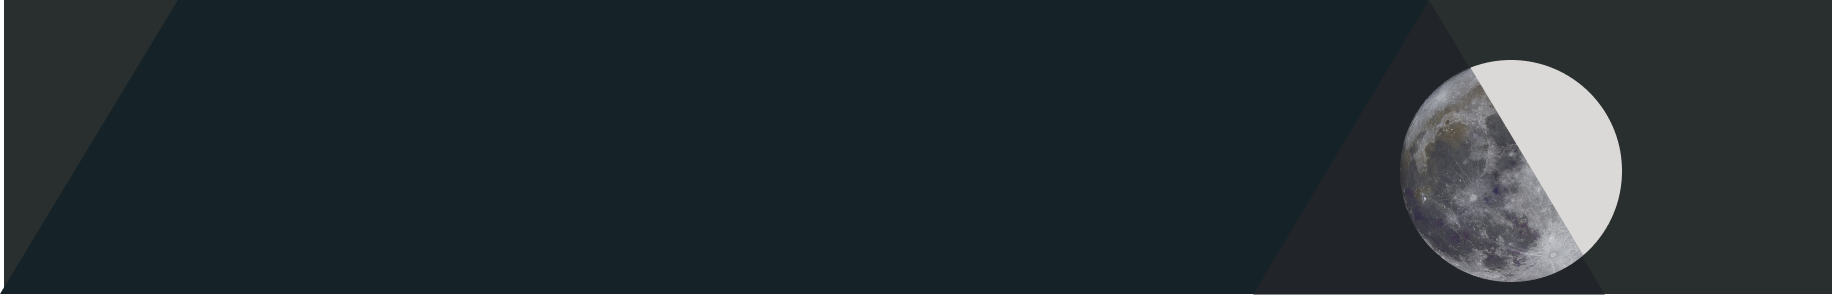
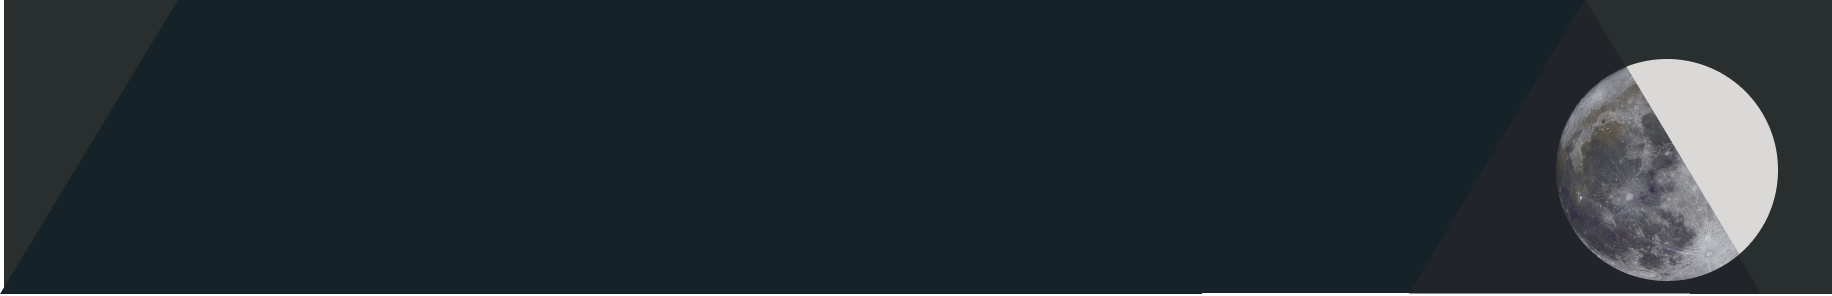
Punchlist UI Fixes

Changed region(s): [[0.6534, 0.1824, 0.9956, 1.0]]

diff --git a/webpack.config.js b/webpack.config.js
@@ -43,12 +43,13 @@ module.exports = {
         new CopyWebpackPlugin(
           {
             patterns: [
-              { from: 'frontend/assets', to: 'assets' },
+              { from: 'frontend/assets', to: 'build/assets' },
+              { from: 'docs/Common_Files', to: 'Common_Files' },
             ],
           }
         ),
         new MiniCssExtractPlugin({
-            filename: 'styles/main.css'
+            filename: 'build/styles/main.css'
         }),
     ],
     optimization: {
@@ -58,9 +59,9 @@ module.exports = {
         ]
     },
     output: { 
-        path: path.resolve(__dirname, 'out/build'),
-        publicPath: '/out/build',
-        filename: 'js/[name].bundle.js',
+        path: path.resolve(__dirname, 'out'),
+        publicPath: '/out',
+        filename: 'build/js/[name].bundle.js',
     },
     devServer: {
         contentBase: path.join(__dirname, '/out'),

diff --git a/frontend/styles/_themes.sass b/frontend/styles/_themes.sass
@@ -45,7 +45,7 @@
             
 
   .content-banner
-    background: url('/build/assets/images/content-banner-light2x.png') right top no-repeat
+    background: url('/build/assets/images/content-banner-light2x.png') right -10px no-repeat
     background-size: cover
     background-color: #F6F7F7
 
@@ -120,7 +120,7 @@
 
 
   .content-banner
-    background: url('/build/assets/images/content-banner-dark2x.png') right top no-repeat
+    background: url('/build/assets/images/content-banner-dark2x.png') right -10px no-repeat
     background-size: cover
     background-color: #292E2E
 

diff --git a/frontend/styles/_content.sass b/frontend/styles/_content.sass
@@ -15,8 +15,8 @@ body#home .content
   padding: 2% 9%
   height: 147px
   margin-bottom: 3em
-  h2 
-    width: 75%
+  h2, h3
+    width: 85%
 
 .content-body
   padding: 0 9%
@@ -56,7 +56,7 @@ body#home .content
       position: relative
       vertical-align: middle
       font-size: 0.95em
-      top: -3px
+      top: -2.2px
   
   p:not(pre) > code, 
       position: relative
